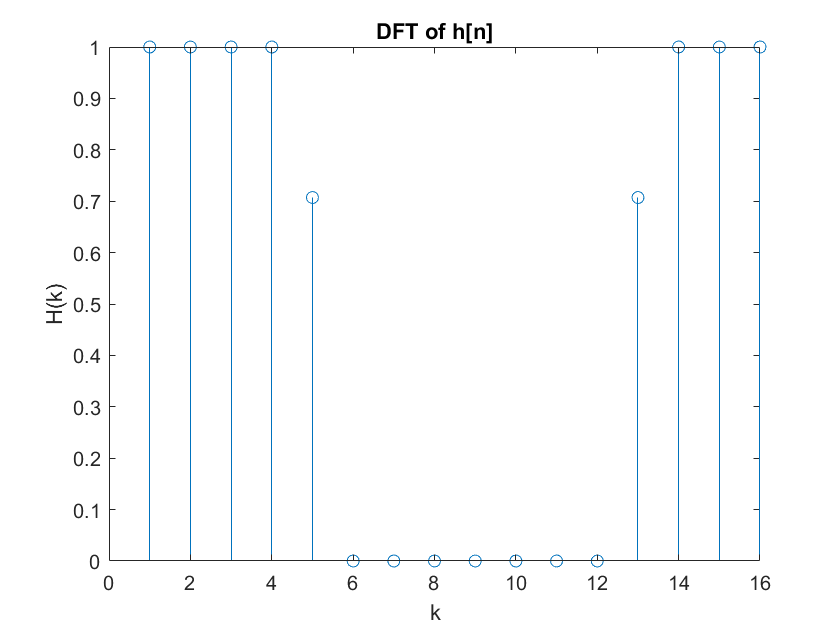
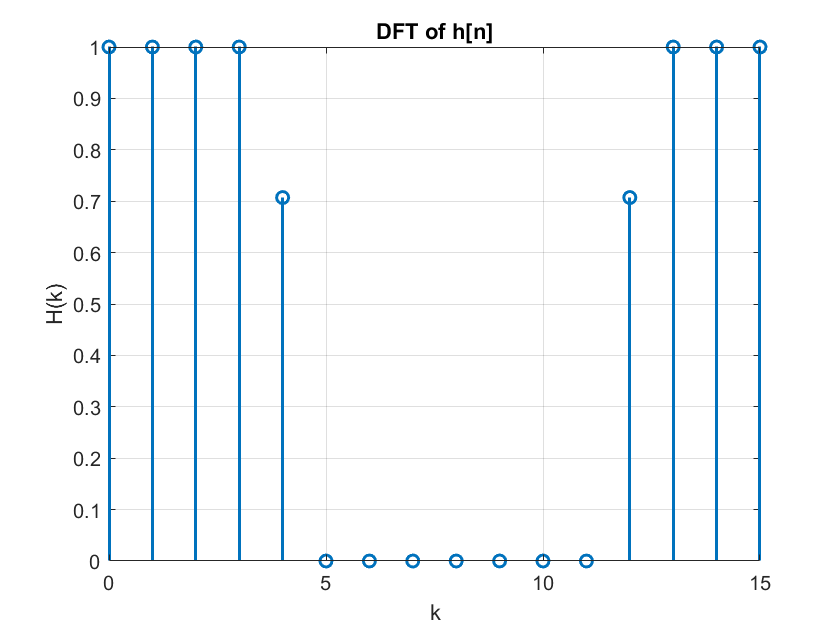
Saving derivation of h_c[n]

diff --git a/6/Homework6_Sowatzke.tex b/6/Homework6_Sowatzke.tex
@@ -94,12 +94,84 @@
 			
 			\item Rearrange the elements of \texttt{h} to obtain a causal, symmetric impulse response, \texttt{hc}. Plot the result. For example, in MATLAB do \texttt{stem(hc)}. What is the final length of this filter?
 			
+			The output of the inverse DFT, \texttt{h}, is one period of the Discrete Fourier Series. The causal, symmetric impulse response will be the Discrete Fourier Series from $n=-\frac{N}{2}$ to $n=\frac{N}{2}$ with the samples at $n=-\frac{N}{2}$ and $n=\frac{N}{2}$ halved. Note that halving the endpoints is necessary if we want to prevent magnitude distortion of \texttt{H(k)}.
+			 
+			\pagebreak
+			Consider circular shifting the array of samples, \texttt{h}, by $N/2$. The circular shift should not distort the magnitude of the DFT samples.
+			
+			\begin{equation*}
+				h_s[n] = h[(n - N/2)\ \text{mod}\ N] \leftrightarrow H[k]e^{\frac{-j{2\pi}(N/2)k}{N}}
+			\end{equation*}
+			
+			If we take a 2N-point DFT of $h_c[n]$, the frequency response samples that we want to match to $H[k]$ are:
+			 
+			\begin{equation*}
+				H_c[2k] = \sum_{n=0}^{2N-1}{h_c[n]e^{-\frac{j2{\pi}n(2k)}{2N}}} = \sum_{n=0}^{2N-1}{h_c[n]e^{-\frac{j2{\pi}nk}{N}}}
+			\end{equation*}
+			
+			\begin{equation*}
+				= \sum_{n=0}^{N-1}{h_c[n]e^{\frac{-j2{\pi}nk}{N}}} + \sum_{n=N}^{2N-1}{h_c[n]e^{\frac{-j2{\pi}nk}{N}}}
+			\end{equation*}
+			
+			\begin{equation*}
+				 = \sum_{n=0}^{N-1}{h_c[n]e^{\frac{-j2{\pi}nk}{N}}} + \sum_{n=0}^{N-1}{h_c[n+N]e^{-\frac{j2{\pi}(n+N)k}{N}}}
+			\end{equation*}
+			
+			\begin{equation*}
+				 = \sum_{n=0}^{N-1}{h_c[n]e^{-\frac{j2{\pi}nk}{N}}} + \sum_{n=0}^{N-1}{h_c[n+N]e^{-\frac{j2{\pi}nk}{N}}}
+			\end{equation*}
+			
+			\begin{equation*}
+				 = \sum_{n=0}^{N-1}{(h_c[n] + h_c[n+N])e^{\frac{-j2{\pi}nk}{N}}}
+			\end{equation*}
+			
+			Compare this to the N-point DFT of $h_s[n]$:
+			
+			\begin{equation*}
+				H_s[k] = \sum_{n=0}^{N-1}{h_s[n]e^{\frac{-j2{\pi}nk}{N}}}
+			\end{equation*}
+			
+			We can preserve the $H_s[k]$ samples (or the magnitude of the $H[k]$ samples) if we set:
+			
+			$h_c[n] + h_c[n+N] = h_s[k]$
+			
+			One way to do this which provides a causal filter is to let
+			
+			\begin{equation*}
+				h_c[n] = \begin{cases}
+					h_s[0]/2 & n = 0\\
+					h_s[n]   & 0 < n < N\\
+					h_s[0]/2 & n = N\\
+					0		 & \text{otherwise}
+				\end{cases}
+			\end{equation*}
+			
 			\begin{figure}[H]
 				\centerline{\fbox{\includegraphics[width=0.5\textwidth]{prob1d_causal_impulse_response.png}}}
 				\caption{Causal Impulse Response $hc[n]$}
 			\end{figure}
 			
-			The final length of the symmetric causal filter is 17. The first and last samples are $h[8]/2$. When the filter is turned in a discrete Fourier series with period 16, the first and last samples of the causal filter add together to produce the expected DFT input. 
+			The final length of the symmetric causal filter is 17. The first and last samples are $h[8]/2$. When the filter is turned in a discrete Fourier series with period 16, the first and last samples of the causal filter add together to produce the expected DFT input.
+			
+			\begin{equation*}
+				X[k] = \sum_{n=0}^{N-1}{(x[n] + x[n + N])e^{-j2{\pi}nk/N}}
+			\end{equation*}
+			
+			\begin{equation*}
+				X[k] = \sum_{n=0}^{N-1}{x[n]e^{-j2{\pi}nk/N}} + \sum_{n=0}^{N-1}{x[n + N]e^{-j2{\pi}nk/N}}
+			\end{equation*}
+			
+			\begin{equation*}
+				X[k] = \sum_{n=0}^{N-1}{x[n]e^{-j2{\pi}nk/N}} + \sum_{n=N}^{2N-1}{x[n]e^{-j2{\pi}nk/N}}
+			\end{equation*}
+			
+			\begin{equation*}
+				X[k] = \sum_{n=0}^{2N-1}{x[n]e^{-j2{\pi}nk/N}}
+			\end{equation*}
+			
+			\begin{equation*}
+				X[k] = \sum_{n=0}^{2N-1}{x[n]e^{-j2{\pi}n(2k)/(2N)}}
+			\end{equation*}
 		\end{enumerate}
 	\end{enumerate}
 	

diff --git a/6/Homework6_Sowatzke.m b/6/Homework6_Sowatzke.m
@@ -26,36 +26,43 @@ omega_k = 2*pi*(0:N-1)/N;
 H(idx1) = sqrt(2)/2;
 H(idx2) = sqrt(2)/2;
 
+% Create index k
+k = 0:(N-1);
+
 % Populate samples corresponding to passband of H
 H(1:(idx1-1)) = 1;
 H((idx2+1):end) = 1;
 
 % Plot the array H
-plot(omega_k/pi, H, '-o', 'LineWidth', 1.5);
-title('Plot of Values in the Array H');
-xlabel('Normalized Frequency (\times \pi rad/sample)');
-ylabel('Magnitude')
+figure(1);
+clf;
+stem(k, H, 'LineWidth', 1.5);
+title('Desired H(k) for LPF');
+xlabel('k');
+ylabel('H(k)')
 grid on;
 
 %% Problem 1b)
 % %ake the inverse DFT of the samples of the array H
 h = ifft(H);
 
-% Ignore the real part since H is real and even.
+% Take the real part of h only since H is real and even.
 h = real(h);
 
 % Plot the resulting impulse response
+figure(2);
 n = 0:(N-1);
 stem(n,h,'LineWidth',1.5);
 grid on;
 xlabel('n');
 ylabel('h(n)');
-title('Inverse DFT of the Array H')
+title('Inverse DFT of H(k)')
 
 %% Problem 1c)
 % Compute the frequency response corresponding to the filter h
 H = fft(h);
-stem(abs(H));
+stem(k,abs(H),'LineWidth',1.5);
+grid on;
 xlabel('k');
 ylabel('H(k)');
 title('DFT of h[n]');
@@ -63,12 +70,23 @@ title('DFT of h[n]');
 %% Problem 1d)
 % Create causal impulse response hc
 hc = fftshift(h);
-hc(1) = hc(1)/2;
+% hc(1) = hc(1)/2;
 hc = [hc; hc(1)];
 n = 0:(length(hc)-1);
 
 % Plot the causal impulse response
-stem(n, hc);
+stem(n, hc, 'Linewidth', 1.5);
 xlabel('n');
 ylabel('hc[n]')
-title('Plot of the Causal Impulse Response hc[n]');
+title('Causal Impulse Response hc[n]');
+grid on;
+
+figure
+plot((0:511)/512,abs(fft(hc,512)),'LineWidth',1.5);
+hold on;
+stem((0:15)/16,abs(H),'LineWidth',1.5)
+grid on;
+xlabel('Normalized Frequency (\times \pi rad/sample');
+ylabel('Magnitude');
+title('Comparison of Hc(e^{j\omega}) to H(k)')
+legend('Hc(e^{j\omega})','H(k)')
